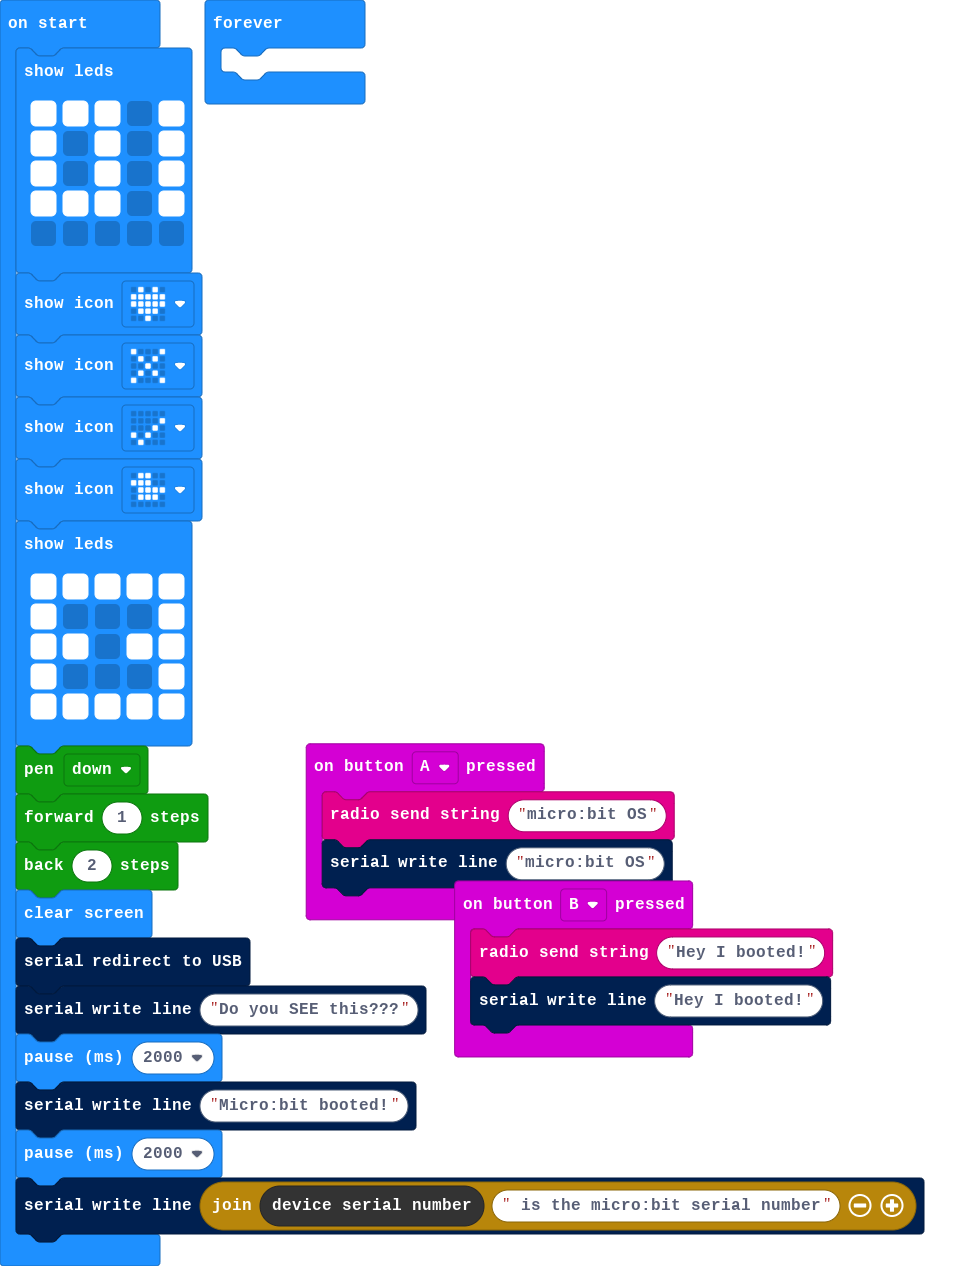
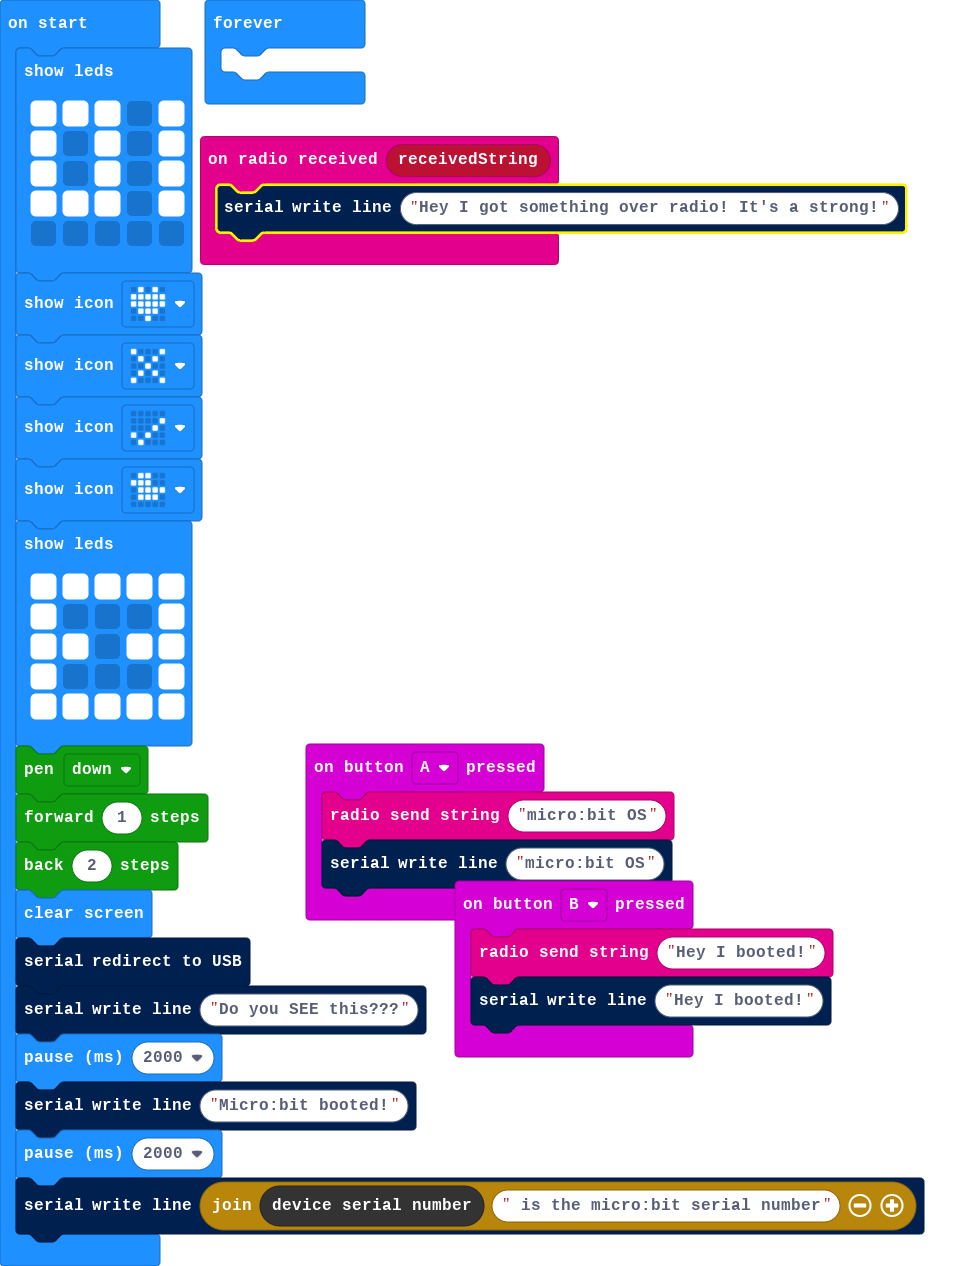
Radio thing

diff --git a/main.ts b/main.ts
@@ -2,6 +2,9 @@ input.onButtonPressed(Button.A, function () {
     radio.sendString("micro:bit OS")
     serial.writeLine("micro:bit OS")
 })
+radio.onReceivedString(function (receivedString) {
+    serial.writeLine("Hey I got something over radio! It's a strong!")
+})
 input.onButtonPressed(Button.B, function () {
     radio.sendString("Hey I booted!")
     serial.writeLine("Hey I booted!")
